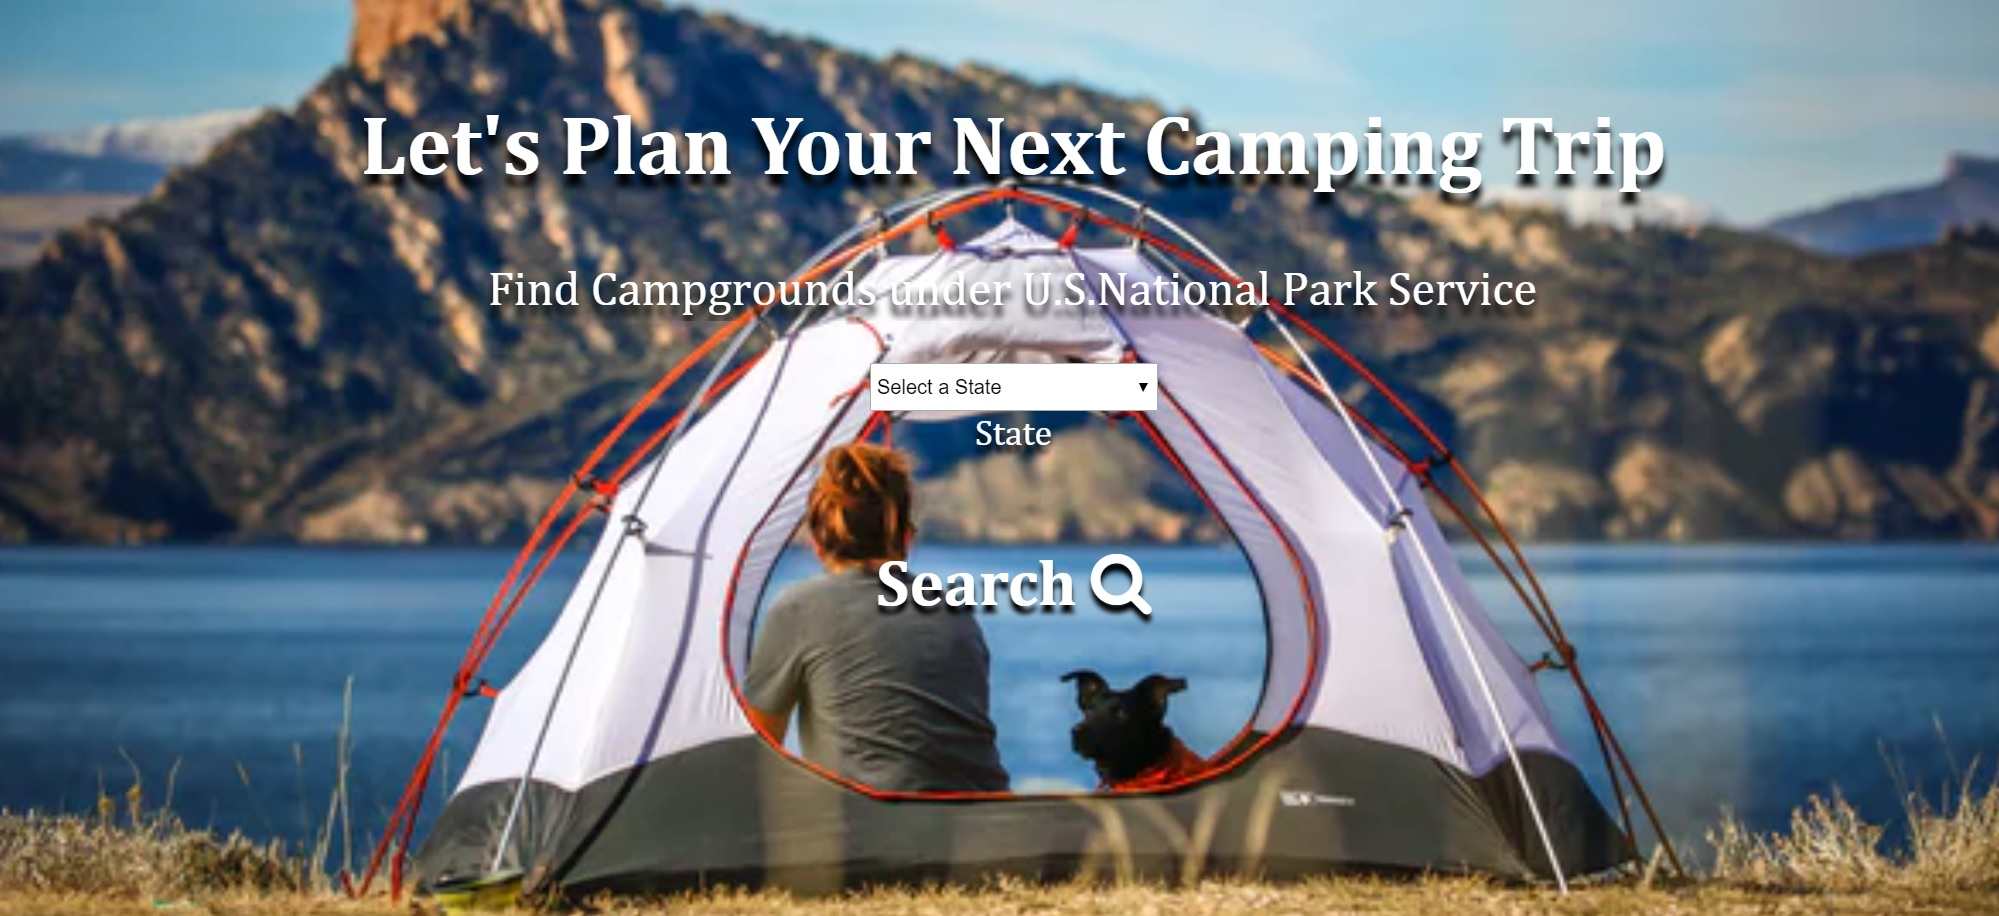
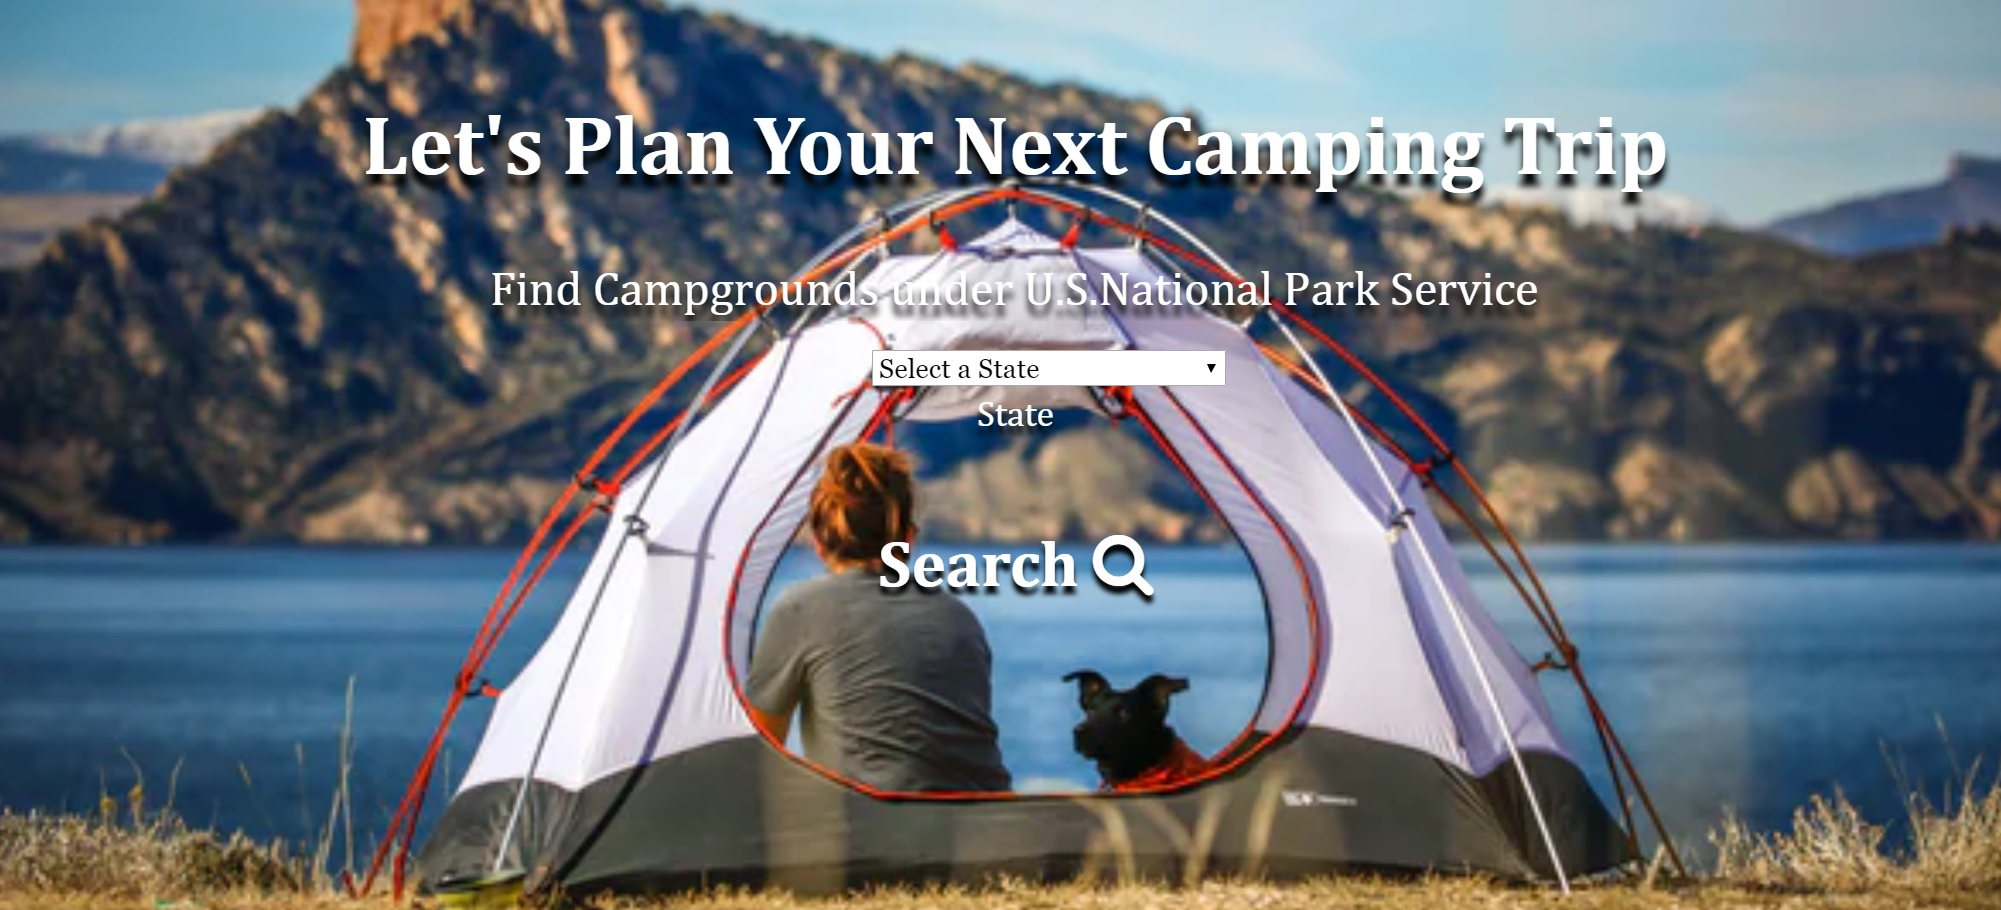
Fixed the css and responsive layouts

diff --git a/index.html b/index.html
@@ -11,6 +11,7 @@
     <link rel="stylesheet" href="https://cdnjs.cloudflare.com/ajax/libs/font-awesome/4.7.0/css/font-awesome.min.css">
     <link href="http://netdna.bootstrapcdn.com/bootstrap/4.1.1/css/bootstrap.min.css" rel="stylesheet">
     <link href="https://maxcdn.bootstrapcdn.com/font-awesome/4.3.0/css/font-awesome.min.css" rel="stylesheet">
+    <link rel="stylesheet" href="https://fonts.googleapis.com/icon?family=Material+Icons">
     <link rel="stylesheet" href="index.css">
     <link rel="stylesheet" href="display.css">
 
@@ -32,7 +33,9 @@
         <form id="js-form">
             <div class="select-state">
                 <label class="js-search-state">
-                    <select name="js-search-state" id="search-state-list">
+                    <select name="js-search-state" id="search-state-list"
+                        onmousedown="if(this.options.length>10){this.size=10;}" onchange='this.size=0;'
+                        onblur="this.size=0;" style="position: relative; z-index: 1;">
 
                         <option value="" disabled selected>Select a State</option>
                         <option value="al">Alabama</option>
@@ -97,7 +100,9 @@
             <span class="label">State</span>
 
             <div class="submission">
-                <h2 class="search-button"> Search <i class="fa fa-search"></i></h2>
+                <h2 class="search-button"> Search <i class="fa fa-search" id="searchIcon"
+                        style="position: relative; z-index: 0;"></i>
+                </h2>
             </div>
         </form>
     </div>

diff --git a/index.css b/index.css
@@ -33,7 +33,6 @@
     text-shadow: 0 5px 5px black;
     text-align: center;
     margin-top: 6%;
-  
   }
 
   h2:hover {
@@ -45,18 +44,19 @@
   #js-form {
     text-align: center;
     font-size: 1.5em;
+  
   }
 
   .label {
     text-shadow: 0 5px 5px black;
   }
 
-
-  #js-form select {
+  #js-form .select-state {
     width: 12rem;
     height: 2rem;
     margin-top: .8rem; 
-   
+    margin:0 auto;
+    align-items: center;
   }
 
   #js-form input{
@@ -64,7 +64,6 @@
     height: 2rem;
     margin-top:0.5rem; 
   }
-
  
   .js-container {
     max-width: 1000px;
@@ -112,6 +111,20 @@
   margin-bottom: 8px;
 }
 
+input, textarea, select, button {
+    text-rendering: auto;
+    color: initial;
+    letter-spacing: normal;
+    word-spacing: normal;
+    text-transform: none;
+    text-indent: 0px;
+    text-shadow: none;
+    display: inline-block;
+    text-align: start;
+    margin: 0em;
+    font: 400 18.3333px Georgia, serif;
+}
+
 
 @media only screen and (max-width: 380px) {
 
@@ -150,6 +163,11 @@
   font-weight: 500;
   font-size: 1.4em;
  }
+
+
+input, textarea, select, button {
+  font: 400 20px Georgia, serif;
+}
  
 }
 
@@ -167,5 +185,13 @@
   font-weight: 500;
   font-size: 2.5em;
  }
+
+ input, textarea, select, button {
+  font: 400 30px Georgia, serif;
+}
+
+#js-form .select-state {
+    width: 18rem;
+  }
 
 }
